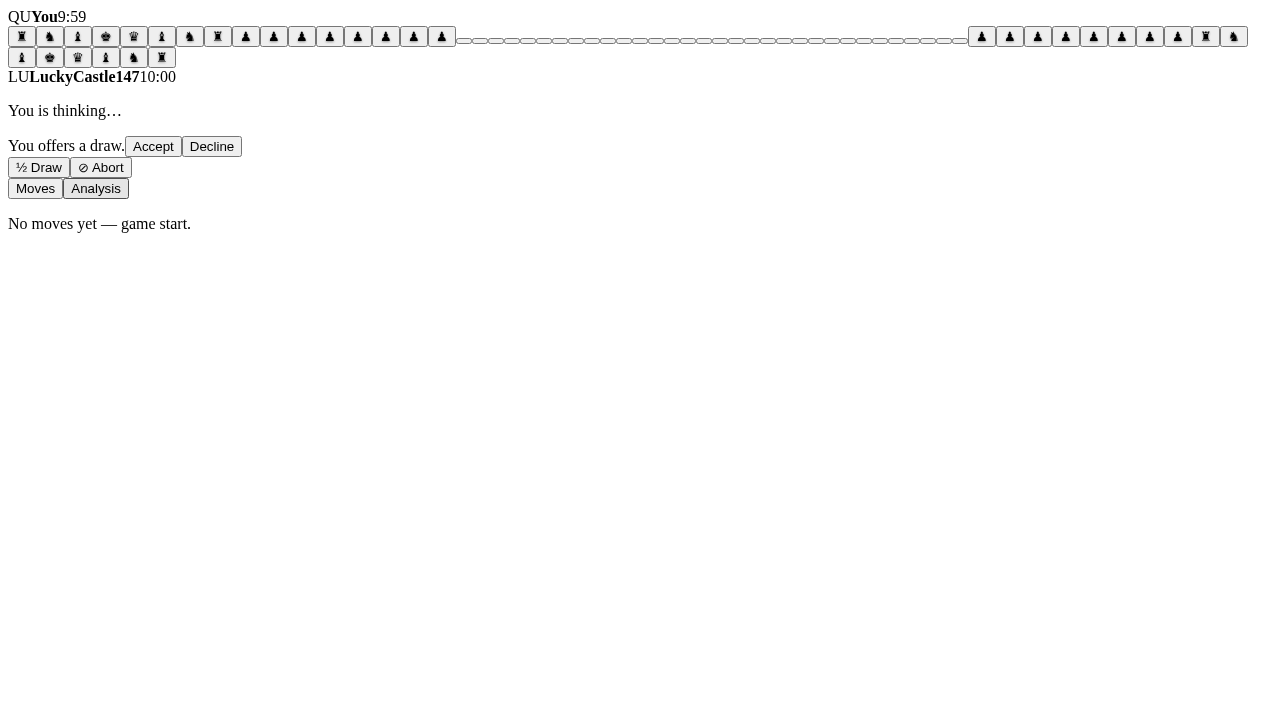
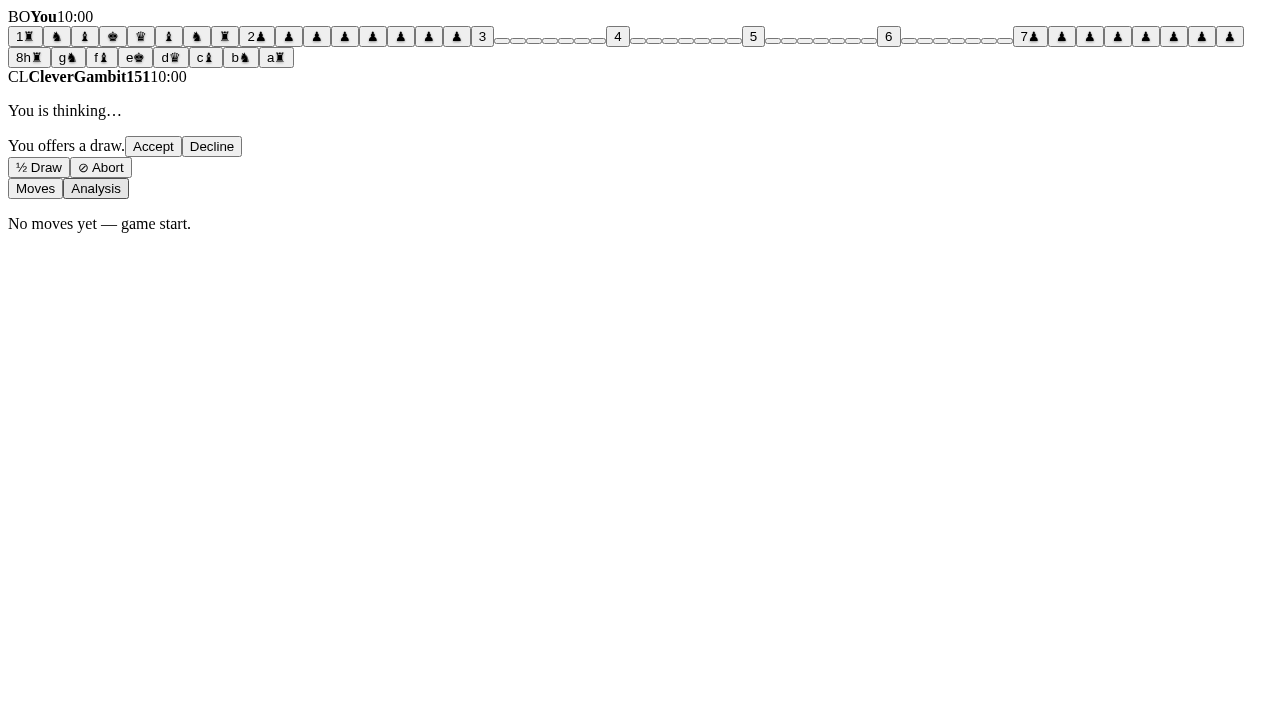
Promotion picker, board coordinates, opening-name header; fix book matcher + test flake; safe restart script

Changed region(s): [[0.0, 0.0, 0.5, 0.1222], [0.75, 0.0306, 0.9688, 0.0611], [0.5625, 0.0306, 0.7188, 0.0611]]

diff --git a/app/play/page.tsx b/app/play/page.tsx
@@ -6,9 +6,10 @@
 import { Suspense, useCallback, useEffect, useMemo, useRef, useState } from "react";
 import { useSearchParams } from "next/navigation";
 import { Chess, type Move, type Square as CSquare } from "chess.js";
-import { Board, type BoardSquare } from "@/components/Board";
+import { Board, GLYPH, type BoardSquare } from "@/components/Board";
 import { PlayerBanner } from "@/components/PlayerBanner";
 import { MoveList } from "@/components/MoveList";
+import { openingName } from "@/lib/openings";
 import { EvalBar } from "@/components/EvalBar";
 import { Dialog } from "@/components/Dialog";
 import { Button } from "@/components/Button";
@@ -68,6 +69,7 @@ function PlayInner() {
   const [phase, setPhase] = useState<Phase>("active");
   const [outcome, setOutcome] = useState<{ result: string; reason: string } | null>(null);
   const [selected, setSelected] = useState<string | null>(null);
+  const [pendingPromo, setPendingPromo] = useState<{ from: string; to: string } | null>(null);
   const [lastMove, setLastMove] = useState<{ from: string; to: string } | null>(null);
   const [whiteMs, setWhiteMs] = useState(600000);
   const [blackMs, setBlackMs] = useState(600000);
@@ -263,19 +265,27 @@ function PlayInner() {
   }
 
   function tryMove(from: string, to: string) {
-    const legal = (chess.moves({ square: from as CSquare, verbose: true }) as Move[]).find(
-      (m) => m.to === to
-    );
-    if (!legal) return false;
-    chess.move({ from, to, promotion: "q" }); // auto-queen; picker ships later
+    const legalAll = chess.moves({ square: from as CSquare, verbose: true }) as Move[];
+    if (!legalAll.some((m) => m.to === to)) return false;
+    if (legalAll.some((m) => m.to === to && m.promotion)) {
+      // promotion: stop and ask which piece
+      setPendingPromo({ from, to });
+      return true;
+    }
+    return commitMove(from, to);
+  }
+
+  function commitMove(from: string, to: string, promotion?: string) {
+    chess.move({ from, to, promotion: promotion ?? "q" });
     applyClockIncrement();
     setLastMove({ from, to });
     setSelected(null);
+    setPendingPromo(null);
     setFen(chess.fen());
     const gid = game?.id ?? gameId;
     if (gid) {
       appliedPly.current += 1;
-      submitMove(gid, { from, to, promotion: "q" }).then((r) => {
+      submitMove(gid, { from, to, promotion: promotion ?? "q" }).then((r) => {
         if (!r.ok) {
           if (r.code?.includes("timeout")) finish(myColor);
           else if (r.code?.includes("over") || r.code?.includes("not_found")) finish();
@@ -459,11 +469,40 @@ function PlayInner() {
       </div>
 
       {tab === "moves" ? (
-        <MoveList moves={history.map((m) => ({ san: m.san }))} />
+        <MoveList moves={history.map((m) => ({ san: m.san }))} opening={openingName(history.map((m) => m.san))} />
       ) : (
         <EvalBar cp={materialEval(chess)} />
       )}
 
+      {pendingPromo && (
+        <div
+          role="dialog"
+          aria-label="Choose promotion piece"
+          className="fixed inset-0 z-50 grid place-items-center bg-black/60"
+        >
+          <div className="rounded-lg border border-border bg-surface p-4 shadow-card">
+            <p className="mb-3 text-center text-sm font-semibold text-text">Promote to…</p>
+            <div className="flex gap-2">
+              {(["q", "r", "b", "n"] as const).map((p) => (
+                <button
+                  key={p}
+                  aria-label={`Promote to ${p}`}
+                  className="grid size-14 place-items-center rounded-md border border-border bg-surface hover:bg-accent-soft text-4xl"
+                  onClick={() => commitMove(pendingPromo.from, pendingPromo.to, p)}
+                >
+                  {GLYPH[p]}
+                </button>
+              ))}
+            </div>
+            <button
+              className="mt-3 w-full text-sm text-text-muted hover:text-text"
+              onClick={() => setPendingPromo(null)}
+            >
+              Cancel
+            </button>
+          </div>
+        </div>
+      )}
       <Dialog
         open={resignOpen}
         danger

diff --git a/lib/openings.ts b/lib/openings.ts
@@ -1,0 +1,82 @@
+// Tiny opening book: longest-prefix match over the SAN move list.
+// Deliberately small (~60 entries, depth ≤ 8 plies) — enough for a header,
+// not a claims-grade repertoire. Anything unmatched shows nothing.
+
+const BOOK: { key: string; name: string }[] = [
+  { key: "e4", name: "King's Pawn" },
+  { key: "e4 e5", name: "Open Game" },
+  { key: "e4 e5 Nf3", name: "King's Knight Opening" },
+  { key: "e4 e5 Nf3 Nc6 Bb5", name: "Ruy López" },
+  { key: "e4 e5 Nf3 Nc6 Bc4", name: "Italian Game" },
+  { key: "e4 e5 Nf3 Nc6 Bc4 Bc5", name: "Italian: Giuoco Piano" },
+  { key: "e4 e5 Nf3 Nc6 Bc4 Nf6", name: "Italian: Two Knights Defense" },
+  { key: "e4 e5 Nf3 Nc6 d4", name: "Scotch Game" },
+  { key: "e4 e5 Nf3 Nc6 Nc3", name: "Four Knights Game" },
+  { key: "e4 e5 Nf3 Nf6", name: "Petrov Defense" },
+  { key: "e4 e5 Nc3", name: "Vienna Game" },
+  { key: "e4 e5 f4", name: "King's Gambit" },
+  { key: "e4 e5 Bc4", name: "Bishop's Opening" },
+  { key: "e4 e5 c4", name: "King's Gambit Deferred" },
+  { key: "e4 c5", name: "Sicilian Defense" },
+  { key: "e4 c5 Nf3 d6", name: "Sicilian: 2...d6" },
+  { key: "e4 c5 Nf3 Nc6", name: "Sicilian: Old Sicilian" },
+  { key: "e4 c5 Nf3 e6", name: "Sicilian: French Variation" },
+  { key: "e4 c5 c3", name: "Sicilian: Alapin Variation" },
+  { key: "e4 c5 Nc3", name: "Sicilian: Closed" },
+  { key: "e4 e6", name: "French Defense" },
+  { key: "e4 e6 d4 d5", name: "French: Main Line" },
+  { key: "e4 e6 d4 d5 Nc3 Bb4", name: "French: Winawer" },
+  { key: "e4 e6 d4 d5 e5", name: "French: Advance" },
+  { key: "e4 c6", name: "Caro-Kann Defense" },
+  { key: "e4 d5", name: "Scandinavian Defense" },
+  { key: "e4 Nf6", name: "Alekhine Defense" },
+  { key: "e4 d6", name: "Pirc Defense" },
+  { key: "e4 g6", name: "Modern Defense" },
+  { key: "d4", name: "Queen's Pawn" },
+  { key: "d4 d5", name: "Closed Game" },
+  { key: "d4 d5 c4", name: "Queen's Gambit" },
+  { key: "d4 d5 c4 e6", name: "Queen's Gambit Declined" },
+  { key: "d4 d5 c4 dxc4", name: "Queen's Gambit Accepted" },
+  { key: "d4 d5 c4 c6", name: "Slav Defense" },
+  { key: "d4 d5 c4 c5", name: "Tarrasch Defense" },
+  { key: "d4 d5 Nf3", name: "Queen's Pawn: Zukertort" },
+  { key: "d4 Nf6", name: "Indian Defense" },
+  { key: "d4 Nf6 c4 e6", name: "Indian: East Indian" },
+  { key: "d4 Nf6 c4 e6 Nc3 Bb4", name: "Nimzo-Indian Defense" },
+  { key: "d4 Nf6 c4 e6 Nf3 b6", name: "Queen's Indian Defense" },
+  { key: "d4 Nf6 c4 g6", name: "King's Indian Defense" },
+  { key: "d4 Nf6 c4 g6 Nc3 Bg7", name: "King's Indian: Normal" },
+  { key: "d4 Nf6 c4 c5", name: "Benoni Defense" },
+  { key: "d4 f5", name: "Dutch Defense" },
+  { key: "d4 e6", name: "Horwitz Defense" },
+  { key: "c4", name: "English Opening" },
+  { key: "c4 e5", name: "English: Reversed Sicilian" },
+  { key: "c4 c5", name: "English: Symmetrical" },
+  { key: "c4 Nf6", name: "English: Anglo-Indian" },
+  { key: "Nf3", name: "Zukertort Opening" },
+  { key: "Nf3 d5 g3", name: "Réti Opening" },
+  { key: "g3", name: "Benko Opening" },
+  { key: "b3", name: "Nimzo-Larsen Attack" },
+  { key: "b4", name: "Sokolsky Opening" },
+  { key: "f4", name: "Bird's Opening" },
+  { key: "Nc3", name: "Dunst Opening" },
+  { key: "e4 e5 Nf3 Nc6 Bb5 a6", name: "Ruy López: Morphy Defense" },
+  { key: "e4 e5 Nf3 Nc6 Bb5 Nf6", name: "Ruy López: Berlin Defense" },
+  { key: "e4 e6 d4 d5 Nc3 Nf6", name: "French: Classical" },
+  { key: "d4 d5 c4 e6 Nc3 c6", name: "QGD: Semi-Slav" },
+];
+
+export function openingName(sanMoves: string[]): string | null {
+  // longest matching prefix wins
+  let bestName: string | null = null;
+  let bestLen = 0;
+  for (const { key, name } of BOOK) {
+    const plies = key.split(" ");
+    if (plies.length > sanMoves.length) continue;
+    if (sanMoves.slice(0, plies.length).join(" ") === key && plies.length > bestLen) {
+      bestName = name;
+      bestLen = plies.length;
+    }
+  }
+  return bestName;
+}

diff --git a/components/Board.tsx b/components/Board.tsx
@@ -5,7 +5,7 @@
 import { useMemo } from "react";
 import type { Square as CSquare } from "chess.js";
 
-const GLYPH: Record<string, string> = {
+export const GLYPH: Record<string, string> = {
   p: "♟", n: "♞", b: "♝", r: "♜", q: "♛", k: "♚",
 };
 
@@ -41,7 +41,11 @@ export function Board({
       aria-label="Chess board"
       className="grid aspect-square w-full grid-cols-8 overflow-hidden rounded-lg shadow-card"
     >
-      {squares.map(({ square, piece }) => {
+      {squares.map(({ square, piece }, i) => {
+        const row = Math.floor(i / 8);
+        const col = i % 8;
+        const isBottom = row === 7;
+        const isLeft = col === 0;
         const isDark = (square.charCodeAt(0) + Number(square[1])) % 2 === 0;
         const isSelected = selected === square;
         const isTarget = legalTargets.has(square);
@@ -56,6 +60,16 @@ export function Board({
             className={`relative grid place-items-center ${isDark ? "bg-board-dark" : "bg-board-light"}
               focus-visible:outline-2 focus-visible:outline-accent focus-visible:-outline-offset-2`}
           >
+            {isLeft && (
+              <span aria-hidden className="absolute left-0.5 top-0.5 text-[10px] font-semibold leading-none opacity-60">
+                {square[1]}
+              </span>
+            )}
+            {isBottom && (
+              <span aria-hidden className="absolute bottom-0.5 right-1 text-[10px] font-semibold leading-none opacity-60">
+                {square[0]}
+              </span>
+            )}
             {isLast && <span aria-hidden className="absolute inset-0 bg-last-move opacity-45" />}
             {isCheck && (
               <span aria-hidden className="absolute inset-0 bg-check opacity-35" />

diff --git a/components/MoveList.tsx b/components/MoveList.tsx
@@ -3,7 +3,15 @@
 
 export type Ply = { san: string };
 
-export function MoveList({ moves, activePly }: { moves: Ply[]; activePly?: number }) {
+export function MoveList({
+  moves,
+  activePly,
+  opening,
+}: {
+  moves: Ply[];
+  activePly?: number;
+  opening?: string | null;
+}) {
   const rows: { n: number; white?: string; black?: string }[] = [];
   moves.forEach((m, i) => {
     const n = Math.floor(i / 2) + 1;
@@ -12,6 +20,11 @@ export function MoveList({ moves, activePly }: { moves: Ply[]; activePly?: numbe
   });
   return (
     <div className="rounded-md border border-border bg-surface p-3">
+      {opening && (
+        <p className="mb-2 border-b border-border pb-2 text-sm font-semibold text-text">
+          {opening}
+        </p>
+      )}
       {moves.length === 0 ? (
         <p className="py-2 text-center text-sm text-text-muted">No moves yet — game start.</p>
       ) : (
